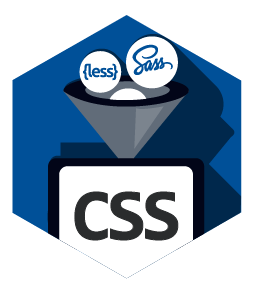
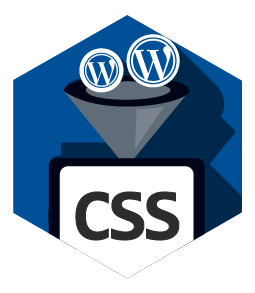
sprints bloqueables

diff --git a/wp-content/themes/HackRoots/assets/css/main.css b/wp-content/themes/HackRoots/assets/css/main.css
@@ -6727,6 +6727,24 @@ select:-webkit-autofill {
   opacity: 0 !important;
 }
 
+.locked{
+  position: absolute;
+  top: 0;
+  left: 0;
+  transition: 0.3s;
+  -webkit-transition: 0.3s;
+  -moz-transition: 0.3s;
+}
+
+.lockedBG{
+  width: 90% !important;
+  position: absolute;
+  top: 5%;
+  left: 5%;
+  opacity: 0.5 !important;
+}
+
+
 .cero.black_hexagon {
   opacity: 0.5 !important;
 }

diff --git a/wp-content/themes/HackRoots/templates/category-sprint-template.php b/wp-content/themes/HackRoots/templates/category-sprint-template.php
@@ -55,11 +55,19 @@ $args = array(
               } 
               ?>
 
-              <div class="badge-container">
-               <a href="<?php  echo get_category_link( $cat->cat_ID )?>">
-                <img class="img-responsive badge-img" title="<?php echo $cat->name; ?>" src="<?php echo get_theme_root_uri(); ?>/HackRoots/assets/img/cat/<?php  echo get_tax_meta($cat->term_id,'text_cat_id'); ?>.png" alt="">
-                <img class="img-responsive black_hexagon"  title="<?php echo $cat->name; ?>"  src="<?php echo get_theme_root_uri(); ?>/HackRoots/assets/img/black_hexagon.png">
-              </a>
+            <div class="badge-container">
+             <?php if(get_tax_meta($value->cat_ID,'text_cat_id') > 9000){ ?>
+             <a href="<?php  echo get_category_link( $cat->cat_ID )?>">
+              <img class="img-responsive badge-img" title="<?php echo $cat->name; ?>" src="<?php echo get_theme_root_uri(); ?>/HackRoots/assets/img/cat/<?php  echo get_tax_meta($cat->term_id,'text_cat_id'); ?>.png" alt="">
+              <img class="img-responsive black_hexagon"  title="<?php echo $cat->name; ?>"  src="<?php echo get_theme_root_uri(); ?>/HackRoots/assets/img/black_hexagon.png">
+             </a>
+             <?php }else{ ?>
+             <a>
+              <img class="img-responsive badge-img" title="<?php echo $cat->name; ?>" src="<?php echo get_theme_root_uri(); ?>/HackRoots/assets/img/cat/<?php  echo get_tax_meta($cat->term_id,'text_cat_id'); ?>.png" alt="">
+              <img class="img-responsive lockedBG"  title="<?php echo $cat->name; ?>" src="<?php echo get_theme_root_uri(); ?>/HackRoots/assets/img/black_hexagon.png">
+              <img class="img-responsive locked"  title="<?php echo $cat->name; ?>" src="<?php echo get_theme_root_uri(); ?>/HackRoots/assets/img/locked.png">
+             </a>
+             <?php } ?>
             </div>
             <?php } ?>
           </div>
@@ -100,7 +108,10 @@ $args = array(
     }); 
      $(".badge-img").hover(function(){ 
       $("#badge-title").text(this.title);
-    });  
+    });
+     $(".locked").hover(function(){ 
+      $("#badge-title").text(this.title);
+    });
 
      $("#badges_carousel").on('slid.bs.carousel', function(event) {
        var allListElements = $( ".badges" );

diff --git a/README.md b/README.md
@@ -1,0 +1,22 @@
+Plataforma Estudiantil de Hack
+==============================
+
+Categorías para sprints
+-----------------------
+Las categorías para sprints deben ser hijas de la categoría *Actividades*
+Las subcategoías de esta categoria, seran los dias de los sprints
+
+Bloquear los sprints (y sus dias)
+--------------------
+Para hacerlo solo hace falta entrar a la sección de categorías desde el panel de administrador de plataforma (sección Entradas>Categorías)
+Luego de entrar seleccione la categoría del sprint que desea bloquear, ojo SOLO FUNCIONA CON CATEGORÍAS DE SPRINTS.
+Las categorías de sprints pueden ser reconocidas por tener un GUION SIMPLE ante su nombre, ejemplo:
+-Aprendiendo a aprender (es un sprint)
+--Como buscar, Introducción HTML (Es un dia, NO es un sprint)
+Actividades, Noticias (son secciones de la pagina, NO SON Sprints)
+
+Luego de seleccionarla haga click en el campo "Numero Categoría (Imágenes)" y colocar:
+Un numero mayor que 9000 (ej:9001) para desbloquear
+Un numero menor a 9000 pero mayor a 8000 (ej: 8500) para bloquear
+
+Con esto se bloqueara el sprint y por consiguiente, sus días.
